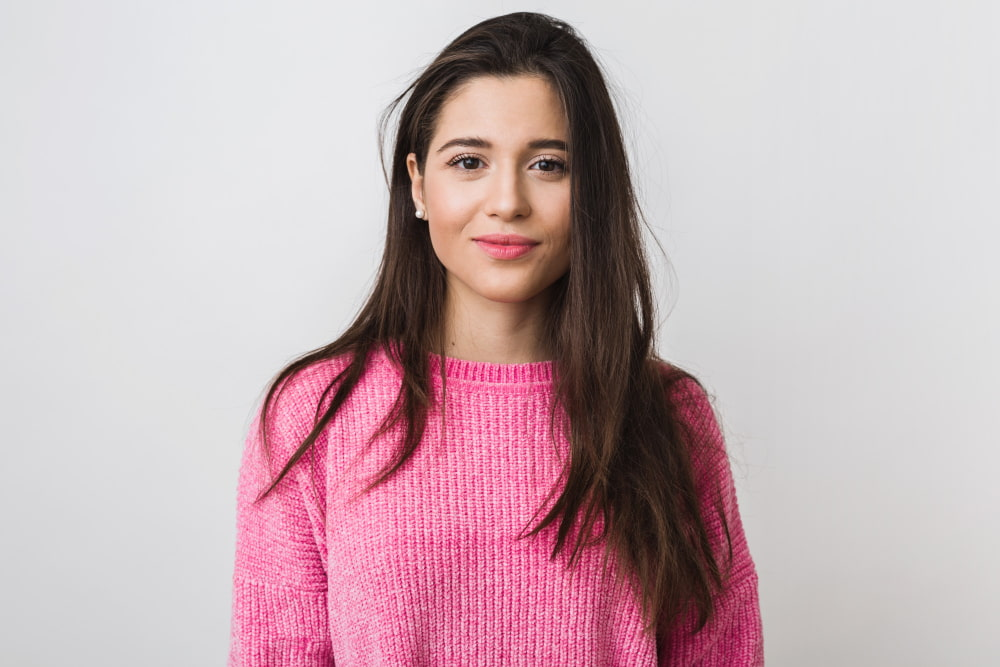
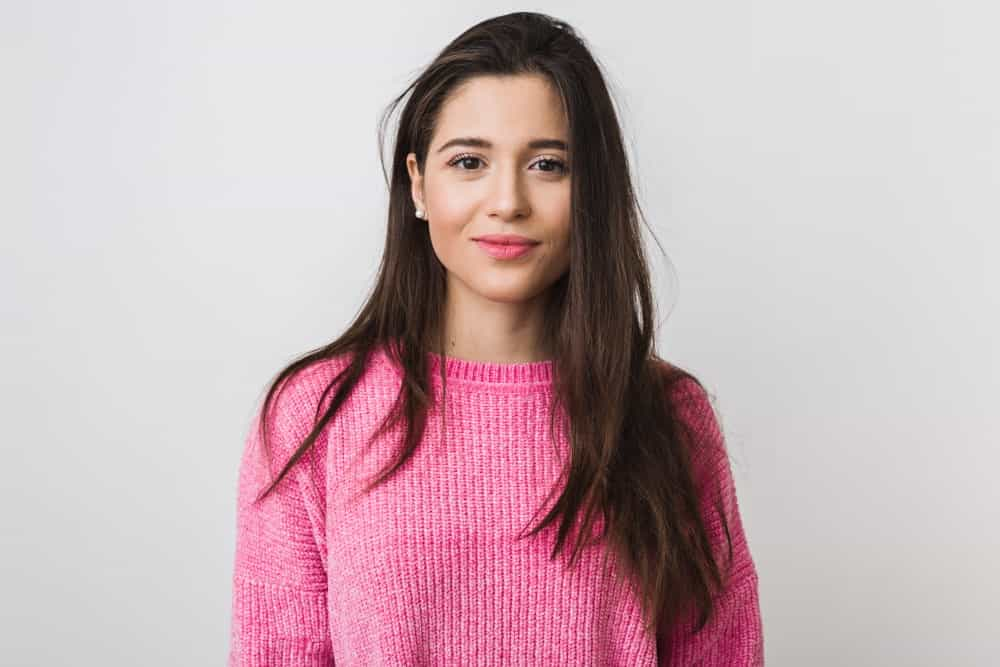
Style has been updated

diff --git a/wwr/styles/rafting.css b/wwr/styles/rafting.css
@@ -157,6 +157,7 @@ header nav ul li a:hover {
 }
 
 .cta-button {
+    display: inline-block;
     position: static;
     background-color: var(--secondary-color);
     color: var(--background-color);
@@ -170,7 +171,6 @@ header nav ul li a:hover {
 
 .cta-button:hover {
     transform: translateY(-3px);
-    background-color: var(--primary-color);
 }
 
 .hero article {
@@ -263,7 +263,7 @@ header nav ul li a:hover {
 }
 
 .part3.additional {
-    grid-template-columns: repeat(3, 1fr);
+    grid-template-columns: repeat(4, 1fr);
 }
 
 .part3 {
@@ -294,6 +294,10 @@ header nav ul li a:hover {
     margin: 0;
     padding: 0;
     grid-column: span 2;
+}
+
+.part3.additional .wide-item {
+    grid-column: 1 / -1;
 }
 
 .grid-item:hover,
@@ -455,7 +459,32 @@ header nav ul li a:hover {
     background-color: var(--secondary-color);
 }
 
+.trips-cta {
+    background-color: var(--primary-color);
+    color: var(--background-color);
+    text-align: center;
+    padding: 40px 20px;
+    border-radius: 8px;
+    box-shadow: var(--box-shadow);
+    margin: 40px 0;
+}
+
+.trips-cta h2 {
+    color: var(--background-color);
+    font-size: 1.8rem;
+    margin-bottom: 10px;
+}
+
+.trips-cta p {
+    font-size: 1rem;
+    margin-bottom: 20px;
+    max-width: 600px;
+    margin-left: auto;
+    margin-right: auto;
+}
+
 .trips-table {
+    grid-column: 1 / -1;
     width: 100%;
     border-collapse: collapse;
     margin-top: 20px;
@@ -480,7 +509,7 @@ header nav ul li a:hover {
     color: var(--text-color);
 }
 
-.trips-table tr:max-child(even) {
+.trips-table tr:nth-child(even) {
     background-color: var(--table-stripe);
 }
 

diff --git a/wwr/index.html b/wwr/index.html
@@ -28,7 +28,7 @@
                 <p><a href="trips.html" class="cta-button">Explore Our Trips</a></p>
             </div>
         </div>
-        <form action="trips.html" class="form" id="form">
+        <form action="contact.html" class="form" id="form">
             <label for="name">Full Name:</label>
             <input type="text" id="name" name="name" placeholder="Ej: Jane Doe">
             <label for="email">Email:</label>
@@ -52,7 +52,7 @@
                     expert guides before heading out to the water.</p>
             </div>
 
-            <div class="grid-item">
+            <div class="grid-item wide-item">
                 <img src="images/rafting_adventure.jpg" alt="Rafting adventure activity">
                 <h3>White Water Offerings</h3>
                 <p>Conquer the wild river rapids. We offer various trip levels designed for both

diff --git a/wwr/trips.html b/wwr/trips.html
@@ -48,6 +48,14 @@
             </article>
         </section>
 
+        <section class="trips-cta">
+            <h2>Ready for an Unforgettable Adventure?</h2>
+            <p>Spaces are limited for our peak season runs. Contact our guides today to secure your
+                spot
+                on the river!</p>
+            <a href="contact.html" class="cta-button">Contact Us Now</a>
+        </section>
+
         <section class="part3">
             <h2>Available Trips Overview</h2>
             <table class="trips-table">

diff --git a/wwr/contact.html b/wwr/contact.html
@@ -93,7 +93,7 @@
                 <figcaption><a href="#">Lorena Guilarte<br>Comunication Manager</a></figcaption>
             </figure>
             <figure>
-                <img src="images/francisco.jpg" alt="Francisco Sierra - Tourism Guide">
+                <img src="images/francisco.webp" alt="Francisco Sierra - Tourism Guide">
                 <figcaption><a href="#">Francisco Sierra <br> Tourism Guide</a></figcaption>
             </figure>
         </section>
